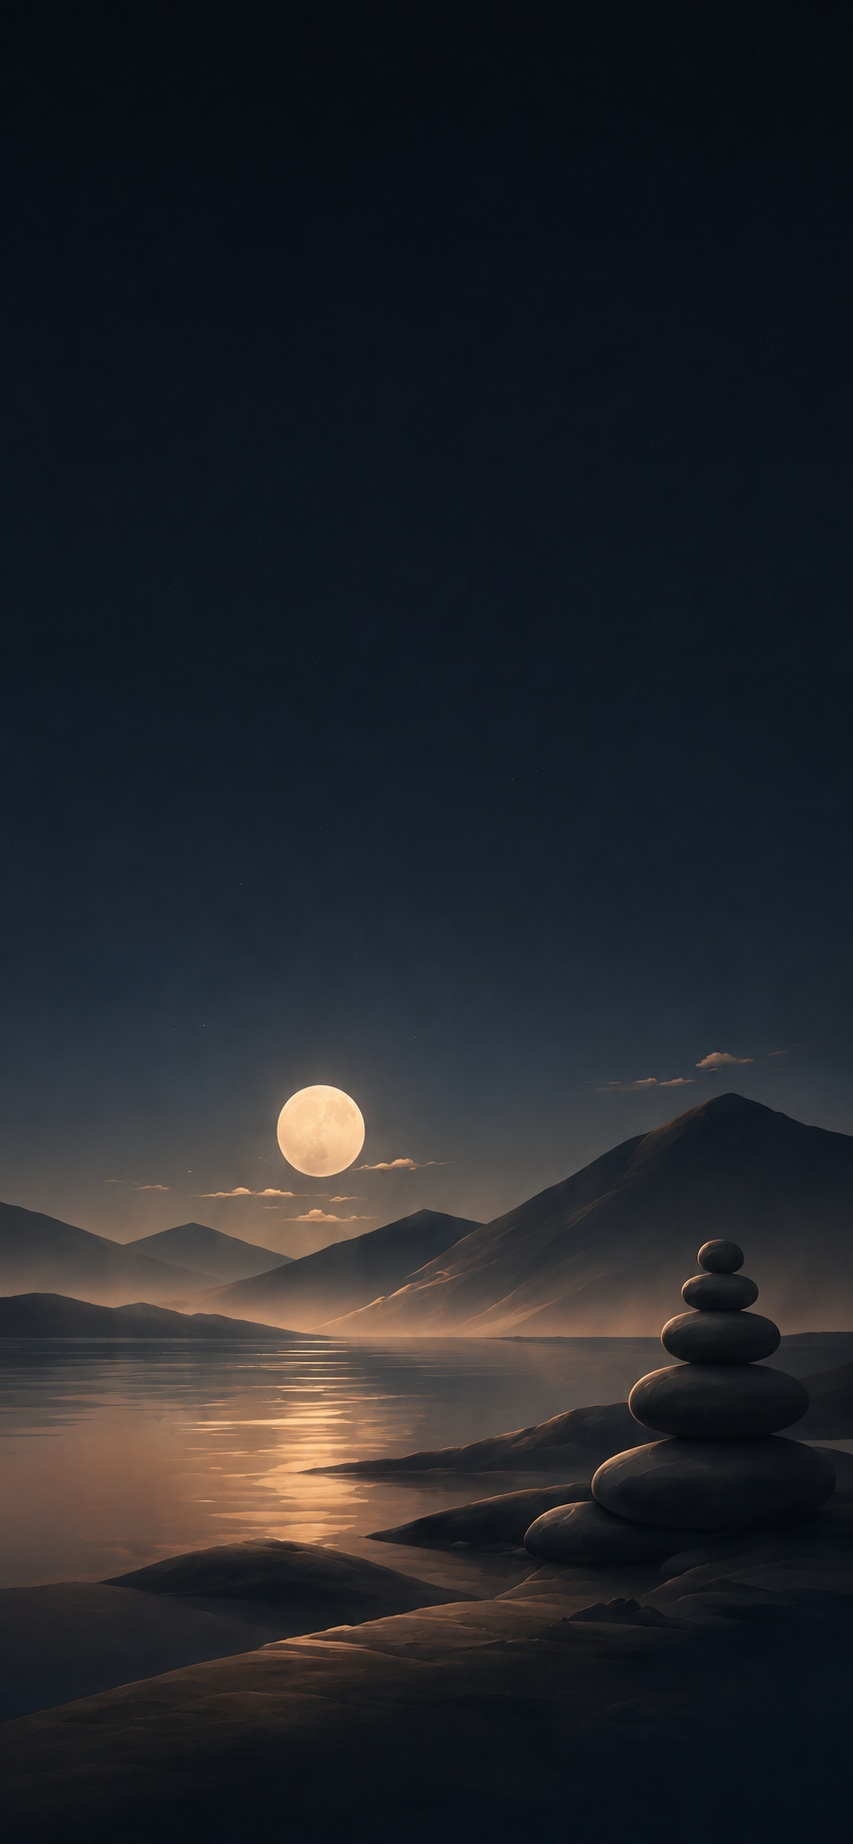
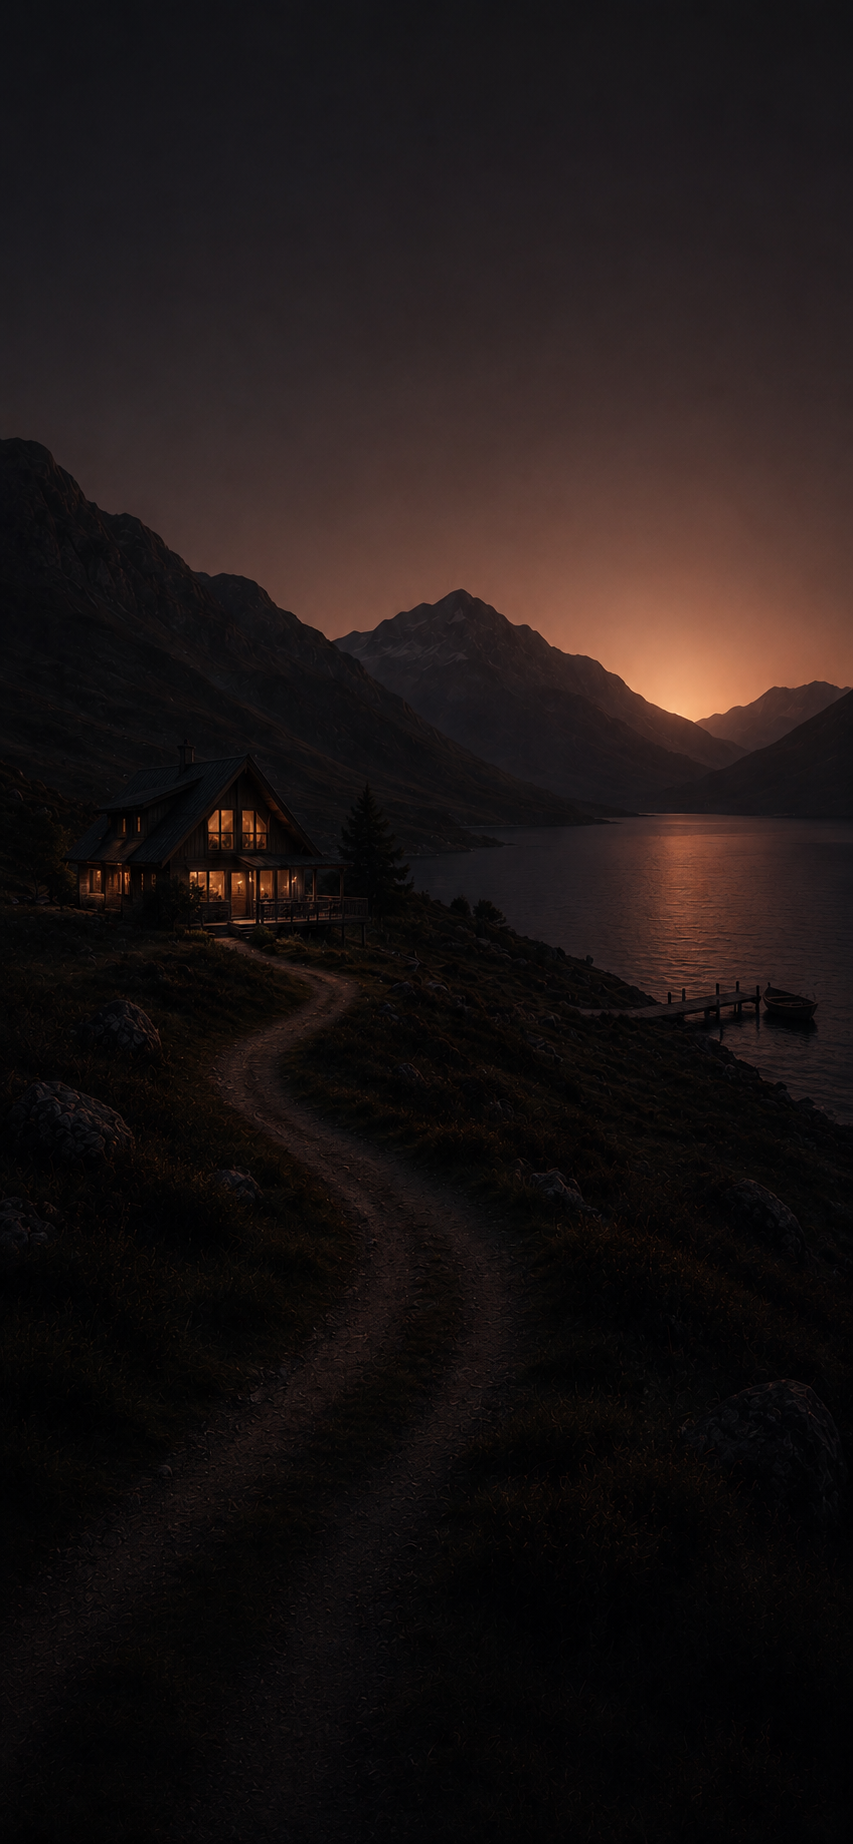
Goals: chalet wallpaper and compact Save button (#26)
* Make Goals Save buttons compact and label them Save

Change expanded goal save buttons from full-width per-goal labels
(e.g. Save Holiday Fund) to a centred compact Save pill using the
existing peach accent styling.

* Add files via upload

---------

diff --git a/index.html b/index.html
@@ -532,12 +532,13 @@ input{width:100%;margin-top:7px;background:#0d0f12;color:var(--text);border:1px 
   body.goals-active-v314 #goals .add-goal-card h2{
     color:rgba(236,232,224,.78);font-size:20px;
   }
-  body.goals-active-v314 #goals .goal-card .save-btn{
-    width:100%;margin-top:14px;border-radius:16px;padding:14px 16px;
-    background:rgba(201,160,122,.88);color:#17150b;border:0;font-weight:720;
+  body.goals-active-v314 #goals .goal-card .save-btn[data-save]{
+    display:block;width:auto;margin:14px auto 0;padding:10px 26px;border-radius:999px;
+    font-size:13px;font-weight:760;
+    background:rgba(201,160,122,.72);color:#17150b;border:0;
   }
-  body.goals-active-v314 #goals .goal-card .save-btn.complete{
-    background:rgba(132,189,145,.88);color:#0c130e;
+  body.goals-active-v314 #goals .goal-card .save-btn[data-save].complete{
+    background:rgba(132,189,145,.72);color:#0c130e;
   }
   body.goals-active-v314 #goals .goal-card .detail{
     color:rgba(190,188,182,.58);font-size:12px;margin-top:8px;line-height:1.45;
@@ -895,7 +896,7 @@ function renderBuiltInGoalCard(key){
   card.className="card goal-card"+(collapsed?" is-collapsed":"");
   card.dataset.goalKey=key;
   card.dataset.goalIndex=String(resolvedGoalOrder().indexOf(key));
-  const saveLabel="Save "+m.name;
+  const saveLabel="Save";
   let extraFields="";
   if(key==="holidayFund"){
     extraFields=`<div class="goal-stat"><small>Combined monthly contribution</small><input class="goal-stat-value" id="holidayMonthly" inputmode="decimal" type="number" min="0" step="1" value="${state.holidayMonthly}"></div>`;
